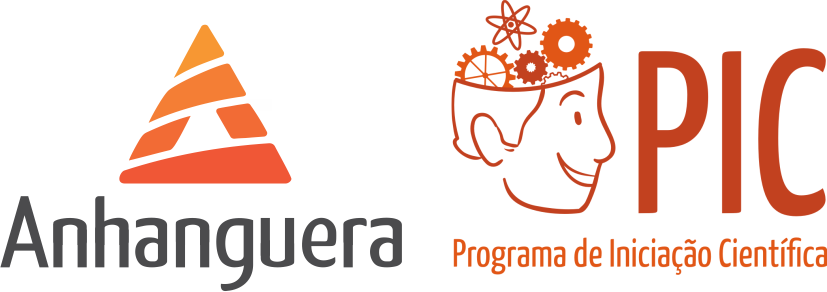
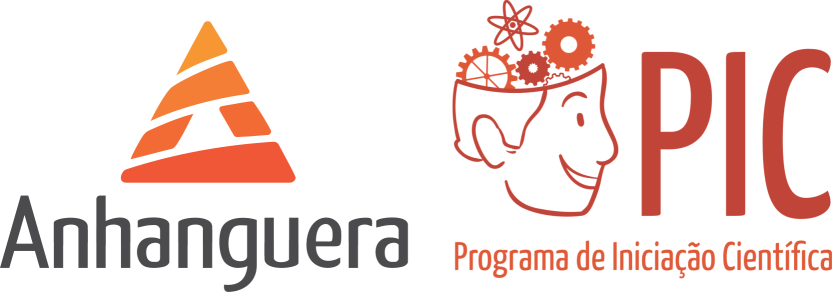
Alterando cofiguraçãoes da classe widescreen
Feita correções da classe Widscreen e title,  acrescimo de algumas
imagens

diff --git a/theme/css/default.css b/theme/css/default.css
@@ -377,8 +377,8 @@ slides.layout-faux-widescreen > slide {
 /* line 212, ../scss/default.scss */
 slides.layout-widescreen > slide,
 slides.layout-faux-widescreen > slide {
-  margin-left: -600px;
-  width: 1200px;
+  margin-left: -500px;
+  width: 1000px;
 }
 /* line 217, ../scss/default.scss */
 slides.layout-widescreen > slide.far-past,
@@ -1318,7 +1318,7 @@ aside.gdbar.bottom {
 }
 /* line 877, ../scss/default.scss */
 aside.gdbar img {
-  width: 85px;
+  width: 150px;
   height: 85px;
   position: absolute;
   right: 0;
@@ -1327,13 +1327,13 @@ aside.gdbar img {
 
 /* line 888, ../scss/default.scss */
 .title-slide hgroup {
-  bottom: 100px;
+  bottom: 120px;
 }
 /* line 891, ../scss/default.scss */
 .title-slide hgroup h1 {
-  font-size: 65px;
+  font-size: 35px;
   line-height: 1.4;
-  letter-spacing: -3px;
+  letter-spacing: -2px;
   color: #515151;
 }
 /* line 898, ../scss/default.scss */
@@ -1347,7 +1347,7 @@ aside.gdbar img {
   font-size: 20px;
   color: #797979;
   line-height: 1.3;
-  margin-top: 2em;
+
 }
 
 /* line 913, ../scss/default.scss */
@@ -1582,8 +1582,8 @@ Modificações
 
 .fundotop{
   background-image:url(../../images/topo.png);
-  width: 1010px;
-  height: 249px;
+  width: 1200px;
+  height: 299px;
   margin-left:-122px;
   position: absolute;
   top: 0px;

diff --git a/slide_config.js b/slide_config.js
@@ -1,8 +1,8 @@
 var SLIDE_CONFIG = {
   // Slide settings
   settings: {
-    title: 'A utilização de sistemas distribuídos </br>no desenvolvimento ',
-    subtitle: 'A tão sonhada web semântica de Tim Berners-Lee',
+    title: 'A utilização de sistemas distribuídos no desenvolvimento </br> de material instrucional para a inclusão digital</br> do projeto Aedu-linux ',
+    subtitle: 'Autores: Weslley Lage e Israel Alves',
     //eventInfo: {
     //  title: 'Google I/O',
     //  date: '6/x/2013'
@@ -22,12 +22,13 @@ var SLIDE_CONFIG = {
 
   // Author information
   presenters: [{
-    name: 'Israel Alves',
-    company: 'Desenvolvedor Front-End<br>AC Portal',
+    name: 'Orientador',
+    company: 'Sandro Renado Dias',
     gplus: 'http://plus.google.com/1234567890',
     twitter: '@yourhandle',
     www: 'http://about.me/israelalves',
-    github: 'https://github.com/alvesnogueira'
+    www: 'http://about.me/wesllyelage',
+    github: 'https://github.com/alvesnogueira/Apresentacao_Conic_2013'
   }/*, {
     name: 'Second Name',
     company: 'Job Title, Google',

diff --git a/template.html b/template.html
@@ -37,7 +37,7 @@ URL: https://code.google.com/p/io-2012-slides
 
     <slide class="title-slide segue nobackground">
     <div class="fundotop"></div>
-      <aside class="gdbar"><img src="images/pic_mini.png"></aside>
+      <aside class="gdbar"><img src="images/anhanguera_e_pic_mini.png"></aside>
       <!-- The content of this hgroup is replaced programmatically through the slide_config.json. -->
       <div class="clear"></div>
       <hgroup class="auto-fadein">
